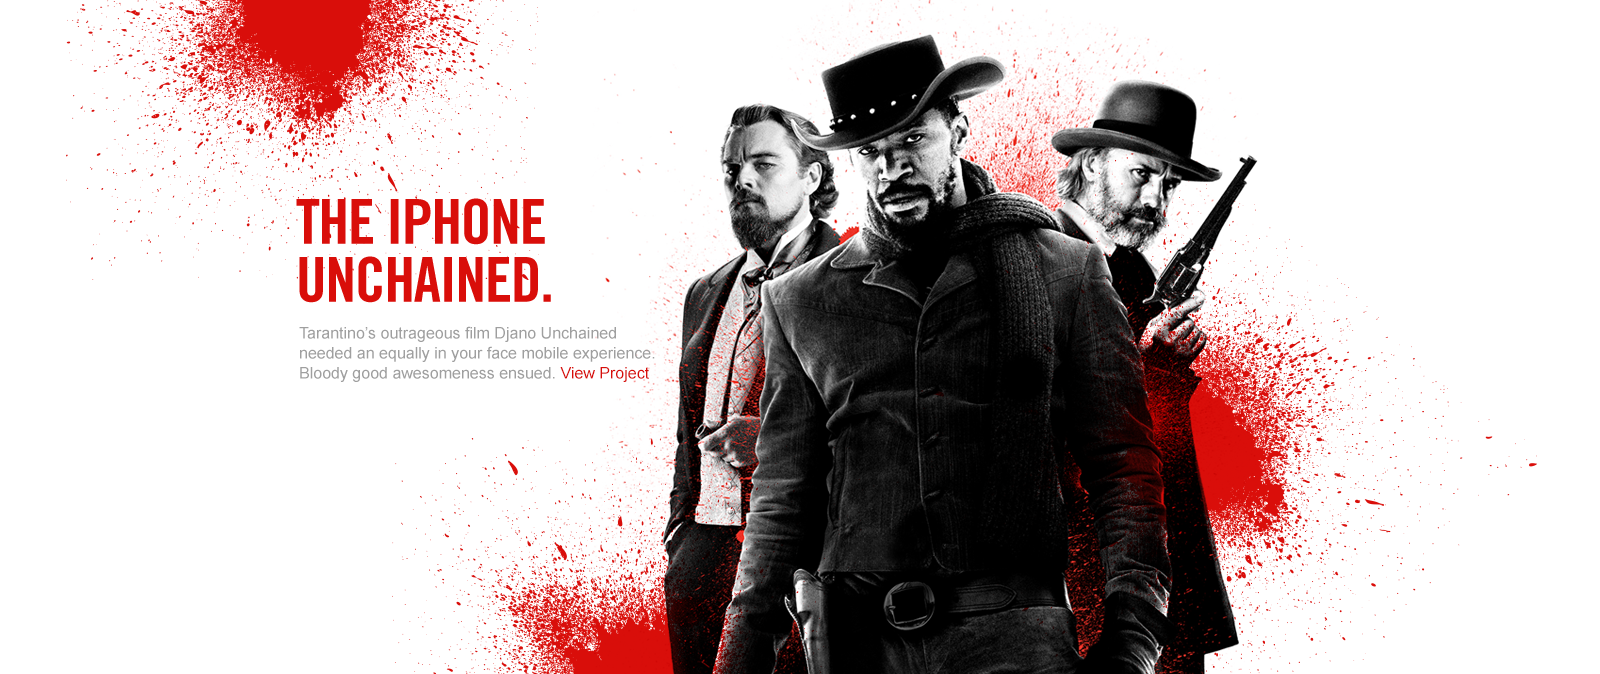
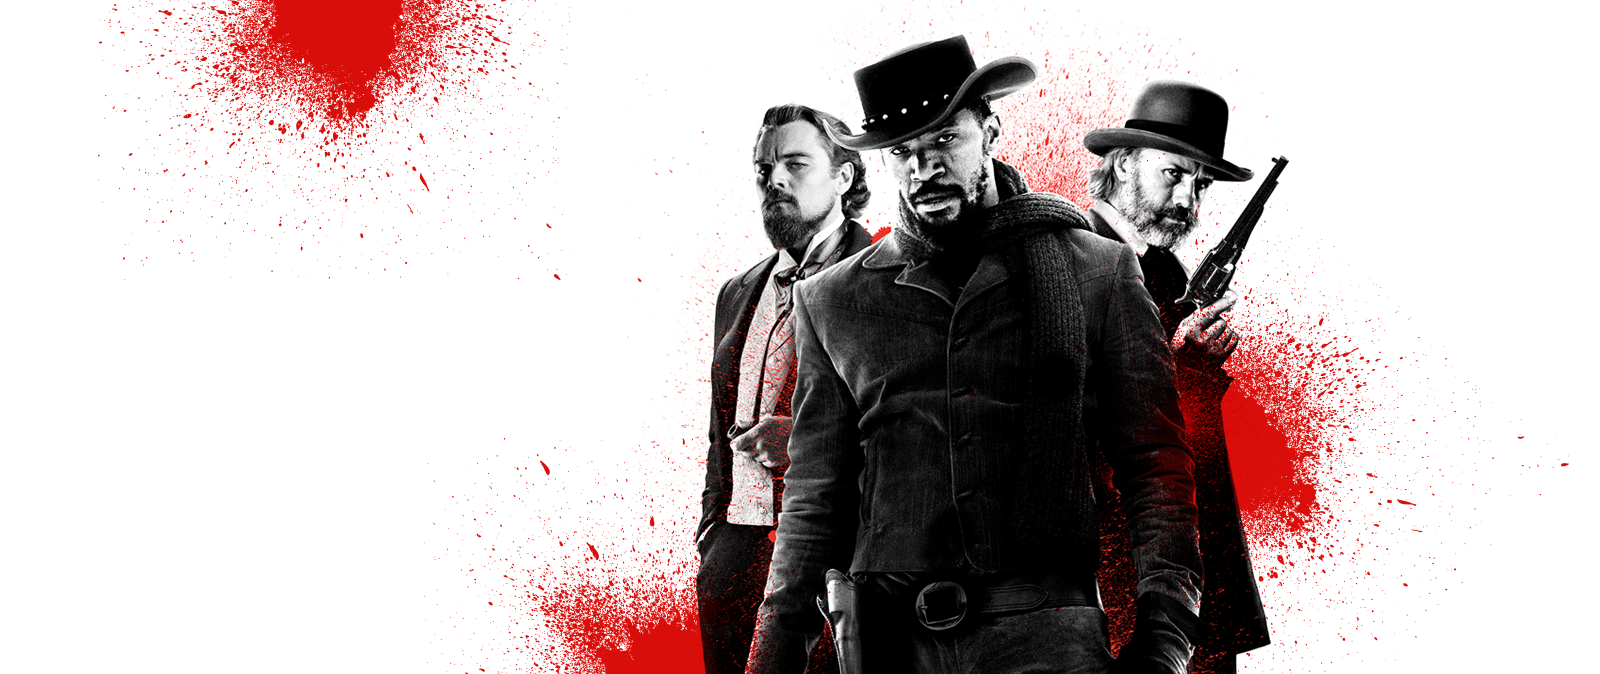
add live text to carousel

Changed region(s): [[0.0625, 0.0, 0.875, 1.0], [0.3125, 0.6855, 0.3438, 0.7166]]

diff --git a/css/main.css b/css/main.css
@@ -73,7 +73,7 @@ body {
     font-weight: bold;
     color: #9f9f9f;
     font-size: 2rem;
-    font-family: "Impact";
+    font-family: "Impact", sans-serif;
     margin-bottom: 10px; }
   .header__nav {
     display: none;
@@ -121,31 +121,6 @@ body {
     align-items: center;
     justify-content: center; }
 
-.carousel__item {
-  background-color: #1d1d1d;
-  background-position: center;
-  background-size: cover;
-  background-repeat: no-repeat; }
-  @media (min-width: 992px) {
-    .carousel__item {
-      background-size: auto; } }
-  .carousel__item.django {
-    background-image: url("../assets/django.png"); }
-  .carousel__item.vizio {
-    background-image: url("../assets/vizio.png"); }
-  .carousel__item.earth {
-    background-image: url("../assets/earth.png"); }
-
-.carousel__content {
-  width: 100%;
-  height: 337px; }
-  @media (min-width: 768px) {
-    .carousel__content {
-      height: 505.5px; } }
-  @media (min-width: 992px) {
-    .carousel__content {
-      height: 674px; } }
-
 .carousel__container {
   position: relative; }
 
@@ -176,7 +151,7 @@ body {
   right: 0; }
 
 .slick-dots {
-  bottom: 20px;
+  bottom: 24px;
   z-index: 1; }
 
 .slick-dots li button:before {
@@ -187,6 +162,103 @@ body {
 .slick-dots li.slick-active button:before {
   color: #e34e33;
   opacity: 1; }
+
+.carousel__item {
+  background-color: #1d1d1d;
+  background-position: center;
+  background-size: cover;
+  background-repeat: no-repeat; }
+  @media (min-width: 992px) {
+    .carousel__item {
+      background-size: auto; } }
+  .carousel__item.django {
+    background-image: url("../assets/django.png"); }
+  .carousel__item.vizio {
+    background-image: url("../assets/vizio.png"); }
+  .carousel__item.escape {
+    background-image: url("../assets/escape.png"); }
+  .carousel__item.ultra {
+    background-image: url("../assets/ultra.png"); }
+
+.carousel__content {
+  margin: 0 auto;
+  padding: 20px;
+  display: flex;
+  flex-direction: column;
+  background-color: rgba(0, 0, 0, 0.77);
+  height: 337px; }
+  @media (min-width: 768px) {
+    .carousel__content {
+      height: 505.5px; } }
+  @media (min-width: 992px) {
+    .carousel__content {
+      height: 674px;
+      background-color: transparent;
+      width: 960px;
+      padding: 10px; } }
+  .vizio .carousel__content {
+    align-items: flex-end;
+    padding-right: 10px; }
+    @media (min-width: 768px) {
+      .vizio .carousel__content {
+        padding-right: 50px; } }
+    @media (min-width: 992px) {
+      .vizio .carousel__content {
+        padding-right: 120px; } }
+
+.carousel__heading {
+  color: #e34e33;
+  text-transform: uppercase;
+  font-weight: bold;
+  font-size: 36px;
+  font-family: "Impact", sans-serif;
+  margin-top: 70px;
+  margin-bottom: 10px; }
+  @media (min-width: 768px) {
+    .carousel__heading {
+      font-size: 50px;
+      margin-top: 60px; } }
+  @media (min-width: 992px) {
+    .carousel__heading {
+      font-size: 62px;
+      margin-bottom: 25px; } }
+  @media (min-width: 992px) {
+    .django .carousel__heading {
+      margin-top: 200px; } }
+  @media (min-width: 992px) {
+    .vizio .carousel__heading {
+      margin-top: 140px;
+      max-width: none; } }
+  .escape .carousel__heading {
+    color: #d48029; }
+  .ultra .carousel__heading {
+    color: #2162bc; }
+
+.carousel__description {
+  color: #ffffff;
+  font-size: 14px;
+  max-width: 360px;
+  line-height: 1.4; }
+  @media (min-width: 992px) {
+    .carousel__description {
+      font-size: 16px;
+      color: #9f9f9f; } }
+  .carousel__description a {
+    font-weight: normal; }
+  .vizio .carousel__description {
+    max-width: 240px; }
+    @media (min-width: 768px) {
+      .vizio .carousel__description {
+        max-width: 330px; } }
+    @media (min-width: 992px) {
+      .vizio .carousel__description {
+        max-width: 410px; } }
+  .escape .carousel__description {
+    color: #ffffff; }
+    .escape .carousel__description a {
+      color: #d48029; }
+  .ultra .carousel__description a {
+    color: #2162bc; }
 
 .sentence {
   display: flex;

diff --git a/index.html b/index.html
@@ -45,14 +45,49 @@
         <div class="carousel__slick">
           <div class="carousel__item django">
             <div class="carousel__content">
+              <h3 class="carousel__heading">
+                The iPhone<br>
+                Unchained.
+              </h3>
+              <p class="carousel__description">Tarantino’s outrageous film Djano Unchained needed an equally in your face mobile experience. Bloody good awesomeness ensued.
+                <a href="#">View Project</a></p>
             </div>
           </div>
           <div class="carousel__item vizio">
             <div class="carousel__content">
+              <h3 class="carousel__heading">
+                Say Hello to the<br>
+                Future of Vizio.
+              </h3>
+              <p class="carousel__description">
+                When Vizio needed to pull the wrap off its new family of PCs they called on Envoy to conceptualize, direct and produce a series of short product films.
+                <a href="#">View Project</a>
+              </p>
             </div>
           </div>
-          <div class="carousel__item earth">
+          <div class="carousel__item escape">
             <div class="carousel__content">
+              <h3 class="carousel__heading">
+                Helping Earth’s<br>
+                Greatest Secrets<br>
+                Break Out.
+              </h3>
+              <p class="carousel__description">
+                Activate rocket boots! We created a series of out of this world mobile apps and games to introduce the hilarious animated film Escape From Planet Earth.
+                <a href="#">View Project</a>
+              </p>
+            </div>
+          </div>
+          <div class="carousel__item ultra">
+            <div class="carousel__content">
+              <h3 class="carousel__heading">
+                World Meet Ultra.<br>
+                Ultra Meet World
+              </h3>
+              <p class="carousel__description">
+                Asked to launch T-Mobile’s new internationally-minded brand, Ultra Mobile, we created a campaign that’s creativity knows no borders.
+                <a href="#">View Project</a>
+              </p>
             </div>
           </div>
         </div>
